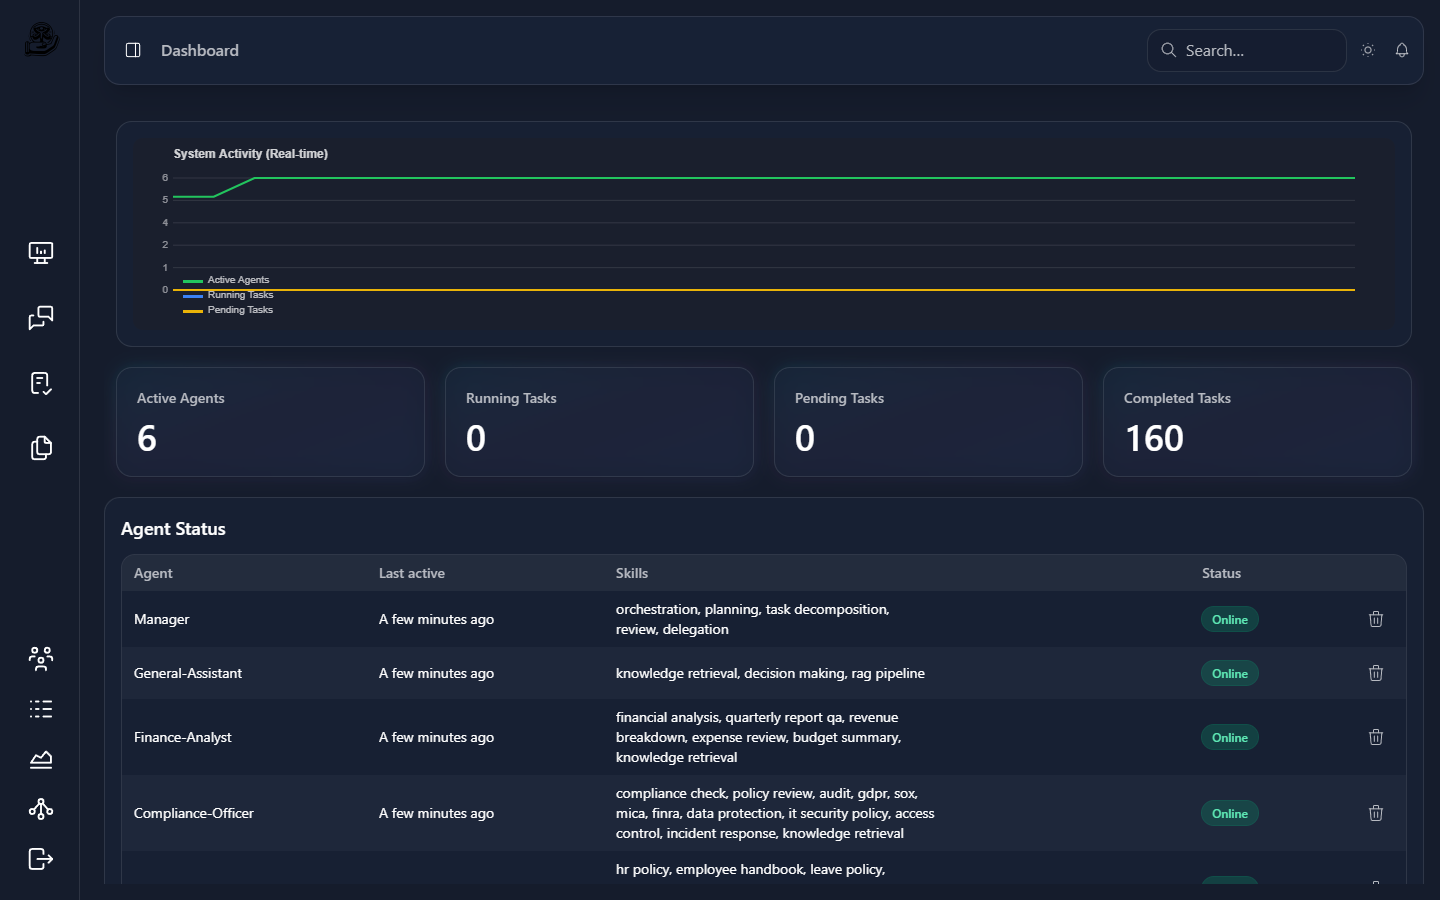
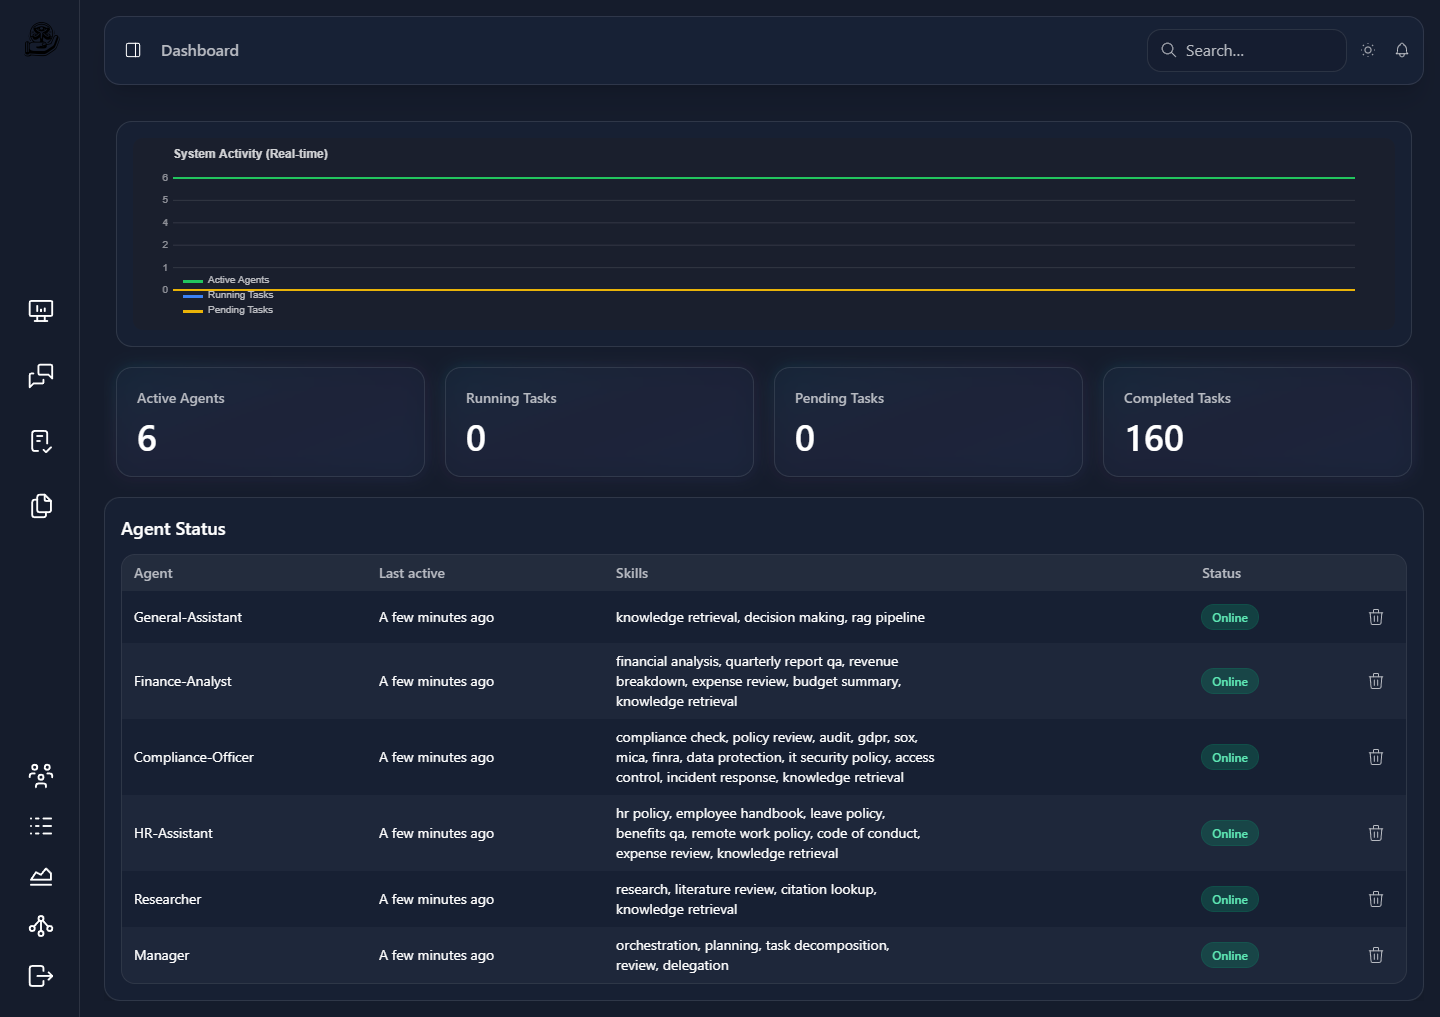
[#] README: captions match the screenshots, dashboard shows every agent

diff --git a/README.md b/README.md
@@ -21,13 +21,13 @@ A question about the demo documents: the agents search them and answer, citing t
 
 ![Knowledge store with the five demo documents](docs/assets/readme/knowledge-store.png)
 
-The knowledge store. Each document added gets a category, its entities and a summary.
+The knowledge store. Each document added gets a category and a summary.
 
 ![Dashboard with the agents online and the task counts](docs/assets/readme/dashboard.png)
 
 The dashboard: the agents online, their skills, and the tasks.
 
-![The trace of one question across the services](docs/assets/readme/admin-traces.png)
+![One trace: the agent handing an answer back to MAS, with each database call](docs/assets/readme/admin-traces.png)
 
 For admins, the logs, metrics and traces of the whole stack, inside the web client. Here, one trace across the agent and MAS: the agent handing back an answer, down to each database call.
 
